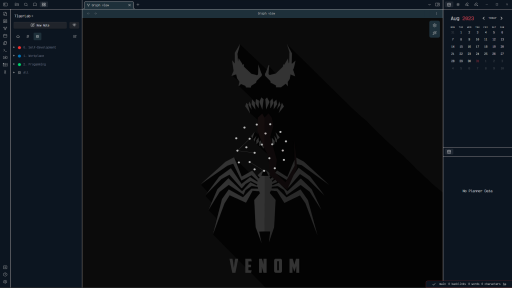
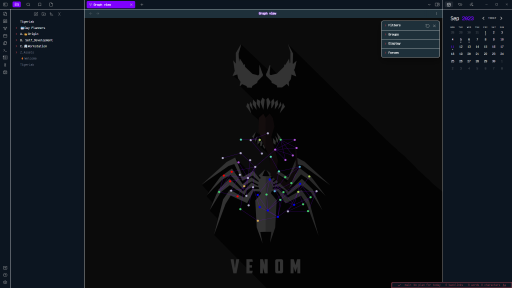
Commit
1. Highlight button
2. Glow current folder and file
3. Change some colors
4. Add animation

diff --git a/theme.css b/theme.css
@@ -66,13 +66,13 @@
     --venom_dark_navy: #0C1520;
     --venom_navy: #1E303A;
     --venom_gray: #8E9599;
-    --venom_white: #EBDEDB;
+    --venom_white: #FFF;
     --venom_dark_red: #752126;
     --venom_pink: #B13D4C;
     --venom_purple: #7F01FE;
   
     --text-title-h1: var(--red);
-    --text-title-h2: var(--orange);
+    --text-title-h2: #FF8126;
     --text-title-h3: var(--yellow);
     --text-title-h4: lightgreen;
     --text-title-h5: skyblue;
@@ -168,7 +168,6 @@
     animation: fadein 1s;
     -moz-animation: fadein 1s; /* Firefox */
     -webkit-animation: fadein 1s; /* Safari and Chrome */
-    -o-animation: fadein 1s; /* Opera */
   }
 
   .progress-bar-line {
@@ -190,7 +189,6 @@
   }
 
   /* fade in animation */
-
   @keyframes fadein {
     from {
         opacity: 0;
@@ -215,13 +213,99 @@
         opacity: 0.8;
     }
   }
-  @-o-keyframes fadein { /* Opera */
+
+  /* view-header-title */  
+  .view-header-title {
+    text-align: center;
+    animation: glow 1s ease-in-out infinite alternate;
+    -moz-animation: glow 1s ease-in-out infinite alternate;
+    -webkit-animation: glow 1s ease-in-out infinite alternate;
+  }
+  
+  /* Glowing Text animation */
+  @keyframes glow {
     from {
-        opacity: 0;
+      color: #fff;
+      text-shadow: 0 0 2px var(--venom_white),
+        0 0 2px var(--venom_white),
+        0 0 3px var(--venom_purple),
+        0 0 3px var(--venom_purple),
+        0 0 3px var(--venom_purple),
+        0 0 3px var(--venom_purple),
+        0 0 3px var(--venom_purple);
     }
     to {
-        opacity: 0.8;
+      color: var(--venom_dark_navy);
+      font-weight: bold;
+      text-shadow: 0 0 2px var(--venom_purple),
+        0 0 2px var(--venom_purple),
+        0 0 3px #fff,
+        0 0 3px #fff,
+        0 0 3px #fff,
+        0 0 3px #fff,
+        0 0 3px #fff;
     }
+  }
+  @-moz-keyframes glow {
+    from {
+      color: #fff;
+      text-shadow: 0 0 2px var(--venom_white),
+        0 0 2px var(--venom_white),
+        0 0 3px var(--venom_purple),
+        0 0 3px var(--venom_purple),
+        0 0 3px var(--venom_purple),
+        0 0 3px var(--venom_purple),
+        0 0 3px var(--venom_purple);
+    }
+    to {
+      color: var(--venom_dark_navy);
+      font-weight: bold;
+      text-shadow: 0 0 2px var(--venom_purple),
+        0 0 2px var(--venom_purple),
+        0 0 3px #fff,
+        0 0 3px #fff,
+        0 0 3px #fff,
+        0 0 3px #fff,
+        0 0 3px #fff;
+    }
+  }
+  @-webkit-keyframes glow {
+    from {
+      color: #fff;
+      text-shadow: 0 0 2px var(--venom_white),
+        0 0 2px var(--venom_white),
+        0 0 3px var(--venom_purple),
+        0 0 3px var(--venom_purple),
+        0 0 3px var(--venom_purple),
+        0 0 3px var(--venom_purple),
+        0 0 3px var(--venom_purple);
+    }
+    to {
+      color: var(--venom_dark_navy);
+      font-weight: bold;
+      text-shadow: 0 0 2px var(--venom_purple),
+        0 0 2px var(--venom_purple),
+        0 0 3px #fff,
+        0 0 3px #fff,
+        0 0 3px #fff,
+        0 0 3px #fff,
+        0 0 3px #fff;
+    }
+  }
+
+  /* Strike */
+
+  .cm-strikethrough {
+    color: var(--red);
+  }
+
+  /* Highlight */
+
+  .cm-s-obsidian span.cm-highlight {
+    background-color: var(--venom_white);
+    color: var(--venom_purple);
+    font-weight: bold;
+    font-size: 20px;
   }
 
   /* End of Addition */
@@ -374,7 +458,6 @@
   }
   
   /* status bar */
-  
   .status-bar, .side-dock.mod-right, .side-dock.mod-left {
     border-color: var(--venom_pink);
     border-width: 1px;
@@ -543,7 +626,9 @@
   
   /* little change */
   .cm-s-obsidian span.cm-inline-code, code {
-    color: var(--venom_pink);
+    background-color: var(--venom_purple);
+    color: var(--venom_white);
+    font-weight: bold;
     font-size: 12pt;
   }
   
@@ -592,6 +677,56 @@
     background-color: var(--venom_purple);
   }
   
+  /* Main view */
+  .workspace-tab-header {
+   margin-right: 10px !important;
+  }
+
+  .workspace-tab-header-inner {
+    margin: auto;
+    padding: auto;
+  }
+  
+  /* Main view mouse over */
+  .workspace-tab-header:hover,
+  .workspace-tab-header-inner:hover {
+    background-color: var(--venom_purple);
+    color: var(--venom_white);
+    border-radius: 5px;
+    font-weight: bold;
+  }
+
+  .workspace-tab-header-container-inner {
+    margin: calc(var(--tab-outline-width) * 3) -7px calc(var(--tab-outline-width) * 3);
+  }
+
+  .workspace-tab-header.is-active {
+    background-color: var(--venom_purple);
+    color: #fff;
+    border-radius: 5px;
+    box-shadow: none;
+    font-weight: bold;
+  }
+
+  .workspace-tab-header::before,
+  .workspace-tab-header::after {
+    display: none;
+  }
+
+  /* Left-side Icons */
+  .clickable-icon:hover {
+    background-color: var(--venom_purple) !important;
+  }
+
+  .mod-left-split .workspace-tab-header.is-active {
+    background-color: var(--venom_purple);
+    color: #fff;
+    border-radius: 5px;
+    box-shadow: none;
+    font-weight: bold;
+  }
+
+  /* Left-side file and folder list, mouse over */
   body:not(.is-grabbing) .nav-file-title:hover,
   body:not(.is-grabbing) .nav-folder-title:hover {
     background-color: var(--venom_purple) !important;
@@ -603,7 +738,7 @@
     inset -1px 0 2px var(--venom_dark_navy),  /* inside */
     inset 1px 0 2px var(--venom_navy); /* outside */
   }
-  
+   
   body:not(.is-grabbing) .nav-file-title.is-selected:hover {
     background-color: var(--nav-item-background-active);
   }
@@ -613,13 +748,39 @@
     display: none;
   }
   
-  
   .nav-file-title.is-selected {
     background-color: var(--nav-item-background-active);
   }
   
   .nav-file-title.is-selected:hover {
     background-color: red;
+  }
+
+  /* Selected file and folder */
+  .tree-item-self.is-clickable.nav-file-title.is-active,
+  .workspace-leaf.mod-active .tree-item-self.has-focus {
+    
+    background-color: var(--venom_purple);
+    font-weight: bold;
+    border-radius: 10px;
+    border-color: var(--venom_white);
+
+    text-align: center;
+    animation: glow 1s ease-in-out infinite alternate;
+    -moz-animation: glow 1s ease-in-out infinite alternate;
+    -webkit-animation: glow 1s ease-in-out infinite alternate;
+  }
+
+  .nav-file-title-content, .nav-folder-title-content {
+    padding-left: 3px;
+    padding-right: 3px;
+  }
+
+  /* tooltip */
+
+  .tooltip {
+    background-color: var(--venom_white);
+    color: var(--venom_purple);
   }
 
   .collapse-icon svg.svg-icon,
